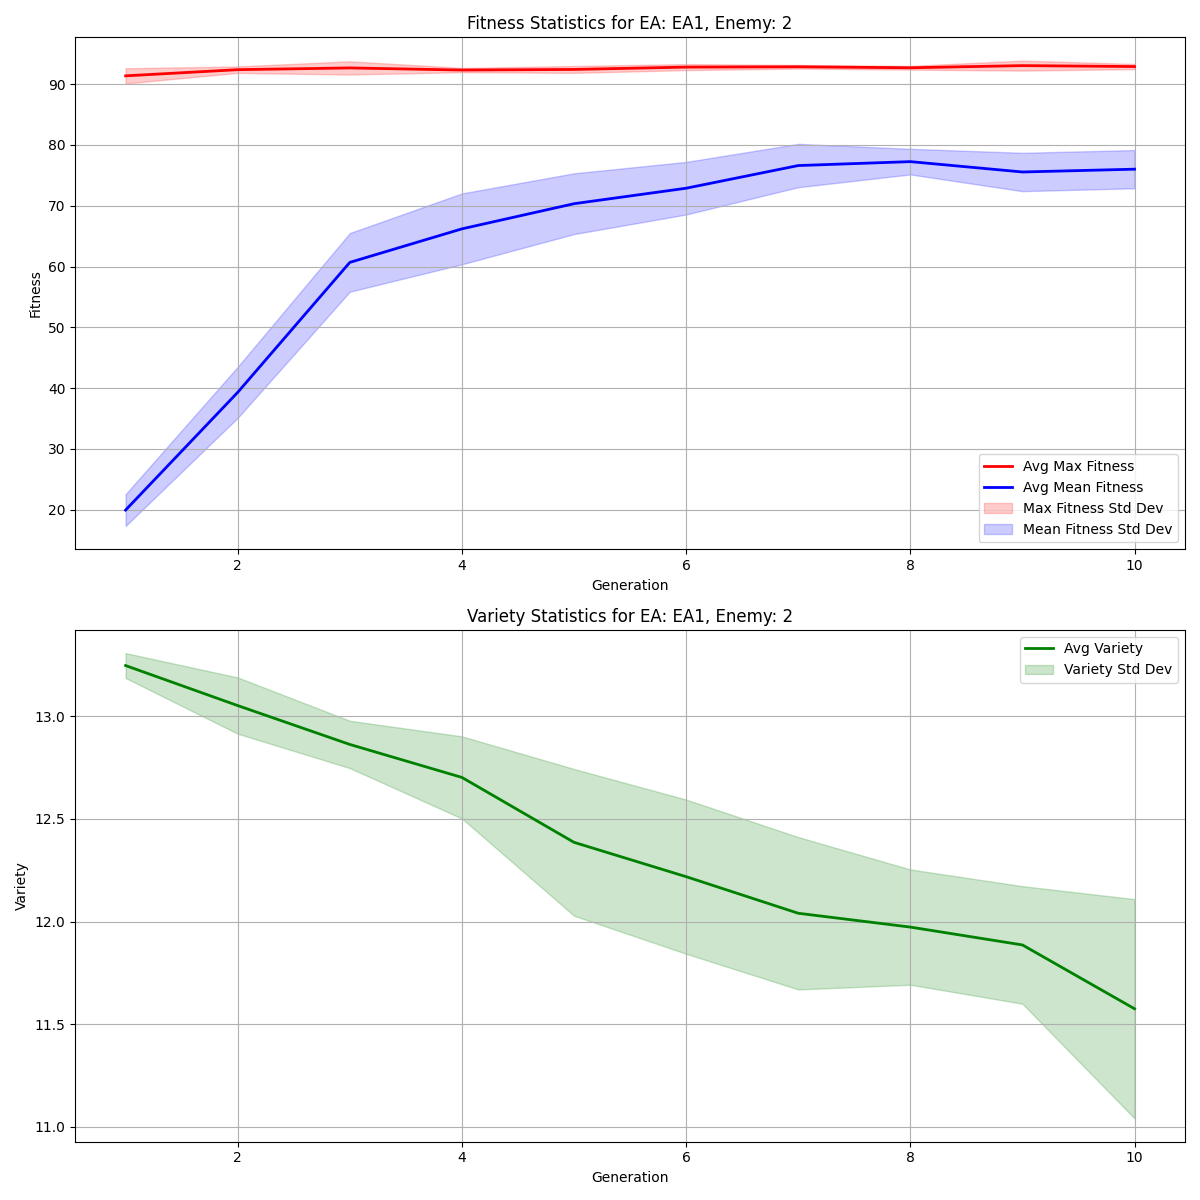
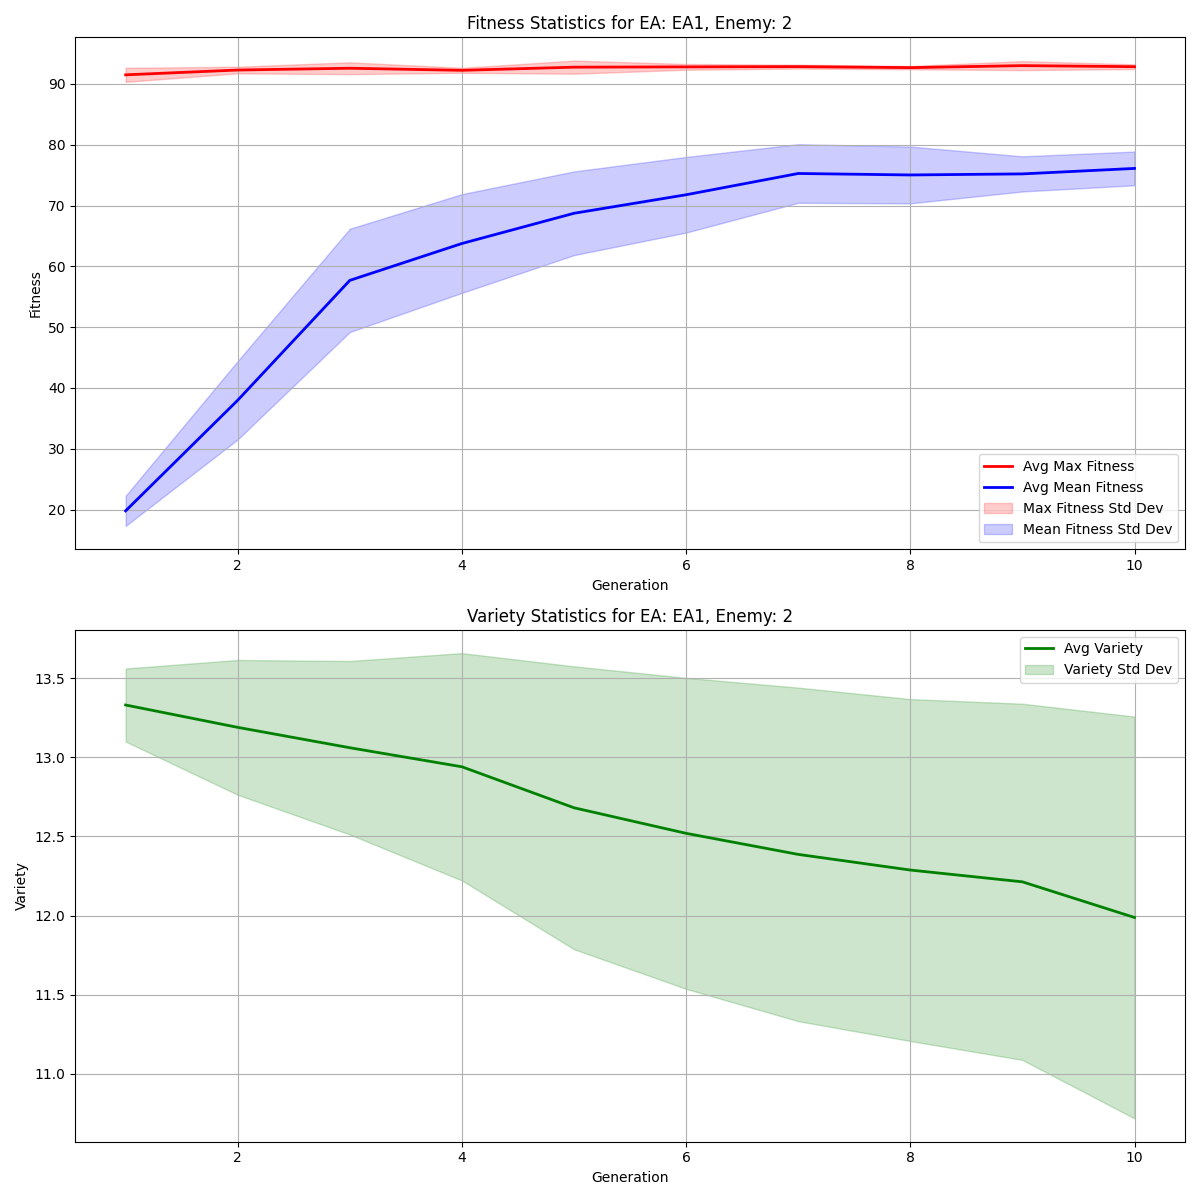
updated plot.py for both EA's

diff --git a/plot.py b/plot.py
@@ -2,6 +2,7 @@ import os
 import glob
 import numpy as np
 import matplotlib.pyplot as plt
+# from PyQt5 import QtCore, QtGui, QtWidgets
 
 # Function to load mean, max fitness, and variety data from CSV files
 def load_fitness_data(ea_folder, enemy_folder):
@@ -48,43 +49,67 @@ def load_fitness_data(ea_folder, enemy_folder):
 
     return valid_generations, avg_max_fitness, avg_mean_fitness, std_max_fitness, std_mean_fitness, avg_variety, std_variety
 
-# Function to plot fitness statistics and variety
-def plot_fitness_statistics(generations, avg_max_fitness, std_max_fitness, avg_mean_fitness, std_mean_fitness, avg_variety, std_variety, ea, enemy):
+# Function to plot the fitness statistics for multiple EAs
+def plot_fitness_statistics(generations, ea1_data, ea2_data, ea1_label, ea2_label, enemy):
     plt.figure(figsize=(12, 12))
 
-    # Plot mean and max fitness on the first subplot
+    # Extract data for EA1
+    avg_max_fitness_ea1, std_max_fitness_ea1, avg_mean_fitness_ea1, std_mean_fitness_ea1, avg_variety_ea1, std_variety_ea1 = ea1_data
+    # Extract data for EA2
+    avg_max_fitness_ea2, std_max_fitness_ea2, avg_mean_fitness_ea2, std_mean_fitness_ea2, avg_variety_ea2, std_variety_ea2 = ea2_data
+
+    # Plot mean and max fitness on the first subplot EA1
     plt.subplot(2, 1, 1)
-    plt.plot(generations, avg_max_fitness, label='Avg Max Fitness', color='red', linewidth=2)
-    plt.plot(generations, avg_mean_fitness, label='Avg Mean Fitness', color='blue', linewidth=2)
+    plt.plot(generations, avg_max_fitness_ea1, label=f'Avg Max Fitness {ea1_label}', color='red', linewidth=2)
+    plt.plot(generations, avg_mean_fitness_ea1, label=f'Avg Mean Fitness {ea1_label}', color='blue', linewidth=2)
 
-    # Plot the shading for standard deviation
+    # Plot the standard deviation for EA1
     plt.fill_between(generations,
-                     np.array(avg_max_fitness) - np.array(std_max_fitness),
-                     np.array(avg_max_fitness) + np.array(std_max_fitness),
-                     color='red', alpha=0.2, label='Max Fitness Std Dev')
+                     np.array(avg_max_fitness_ea1) - np.array(std_max_fitness_ea1),
+                     np.array(avg_max_fitness_ea1) + np.array(std_max_fitness_ea1),
+                     color='red', alpha=0.2, label=f'{ea1_label} Max Fitness Std Dev')
 
     plt.fill_between(generations,
-                     np.array(avg_mean_fitness) - np.array(std_mean_fitness),
-                     np.array(avg_mean_fitness) + np.array(std_mean_fitness),
-                     color='blue', alpha=0.2, label='Mean Fitness Std Dev')
+                     np.array(avg_mean_fitness_ea1) - np.array(std_mean_fitness_ea1),
+                     np.array(avg_mean_fitness_ea1) + np.array(std_mean_fitness_ea1),
+                     color='blue', alpha=0.2, label=f'{ea1_label} Mean Fitness Std Dev')
 
-    plt.title(f'Fitness Statistics for EA: {ea}, Enemy: {enemy}')
+    # Plot mean and max fitness for EA2
+    plt.plot(generations, avg_max_fitness_ea2, label=f'Avg Max Fitness {ea2_label}', color='orange', linewidth=2, linestyle='--')
+    plt.plot(generations, avg_mean_fitness_ea2, label=f'Avg Mean Fitness {ea2_label}', color='purple', linewidth=2, linestyle='--')
+
+    # Plot standard deviation for EA2
+    plt.fill_between(generations,
+                     np.array(avg_max_fitness_ea2) - np.array(std_max_fitness_ea2),
+                     np.array(avg_max_fitness_ea2) + np.array(std_max_fitness_ea2),
+                     color='orange', alpha=0.2, label=f'{ea2_label} Max Fitness Std Dev')
+
+    plt.fill_between(generations,
+                     np.array(avg_mean_fitness_ea2) - np.array(std_mean_fitness_ea2),
+                     np.array(avg_mean_fitness_ea2) + np.array(std_mean_fitness_ea2),
+                     color='purple', alpha=0.2, label=f'{ea2_label} Mean Fitness Std Dev')
+
+    plt.title(f'Fitness Statistics for Enemy: {enemy}')
     plt.xlabel('Generation')
     plt.ylabel('Fitness')
     plt.legend()
     plt.grid()
 
-    # Plot variety on the second subplot
+    # Plot variety 
     plt.subplot(2, 1, 2)
-    plt.plot(generations, avg_variety, label='Avg Variety', color='green', linewidth=2)
-
-    # Plot the shading for standard deviation
+    plt.plot(generations, avg_variety_ea1, label=f'Avg Variety {ea1_label}', color='green', linewidth=2)
     plt.fill_between(generations,
-                     np.array(avg_variety) - np.array(std_variety),
-                     np.array(avg_variety) + np.array(std_variety),
-                     color='green', alpha=0.2, label='Variety Std Dev')
+                     np.array(avg_variety_ea1) - np.array(std_variety_ea1),
+                     np.array(avg_variety_ea1) + np.array(std_variety_ea1),
+                     color='green', alpha=0.2, label=f'{ea1_label} Variety Std Dev')
 
-    plt.title(f'Variety Statistics for EA: {ea}, Enemy: {enemy}')
+    plt.plot(generations, avg_variety_ea2, label=f'Avg Variety {ea2_label}', color='cyan', linewidth=2, linestyle='--')
+    plt.fill_between(generations,
+                     np.array(avg_variety_ea2) - np.array(std_variety_ea2),
+                     np.array(avg_variety_ea2) + np.array(std_variety_ea2),
+                     color='cyan', alpha=0.2, label=f'{ea2_label} Variety Std Dev')
+
+    plt.title(f'Variety Statistics for Enemy: {enemy}')
     plt.xlabel('Generation')
     plt.ylabel('Variety')
     plt.legend()
@@ -92,27 +117,33 @@ def plot_fitness_statistics(generations, avg_max_fitness, std_max_fitness, avg_m
     plt.tight_layout()
 
     # Save the plot
-    output_folder = f"plots/{ea}/{enemy}"
+    output_folder = f"plots/EA1_vs_EA2/enemy_{enemy}"
     os.makedirs(output_folder, exist_ok=True)
     plt.savefig(f"{output_folder}/fitness_and_variety_statistics_enemy{enemy}.png")
     plt.show()
     plt.close()
 
+
 # Main function to run the plotting
 def main():
     base_data_folder = 'testdata'
-    ea = 'EA1'  # Change to the specific EA you want to analyze
+    ea1 = 'EA1'
+    ea2 = 'EA2'
     enemy = '2'  # Change to the specific enemy you want to analyze
 
-    ea_folder = os.path.join(base_data_folder, ea)
+    ea1_folder = os.path.join(base_data_folder, ea1)
+    ea2_folder = os.path.join(base_data_folder, ea2)
+
     enemy_folder = enemy
 
-    # Load the fitness and variety data
-    generations, avg_max_fitness, avg_mean_fitness, std_max_fitness, std_mean_fitness, avg_variety, std_variety = load_fitness_data(ea_folder, enemy_folder)
+    generations, avg_max_fitness_ea1, avg_mean_fitness_ea1, std_max_fitness_ea1, std_mean_fitness_ea1, avg_variety_ea1, std_variety_ea1 = load_fitness_data(ea1_folder, enemy_folder)
+    _, avg_max_fitness_ea2, avg_mean_fitness_ea2, std_max_fitness_ea2, std_mean_fitness_ea2, avg_variety_ea2, std_variety_ea2 = load_fitness_data(ea2_folder, enemy_folder)
 
-    # Plot the statistics
-    plot_fitness_statistics(generations, avg_max_fitness, std_max_fitness, avg_mean_fitness, std_mean_fitness, avg_variety, std_variety, ea, enemy)
-    print(f"Plot saved for EA: {ea}, Enemy: {enemy}")
+    ea1_data = (avg_max_fitness_ea1, std_max_fitness_ea1, avg_mean_fitness_ea1, std_mean_fitness_ea1, avg_variety_ea1, std_variety_ea1)
+    ea2_data = (avg_max_fitness_ea2, std_max_fitness_ea2, avg_mean_fitness_ea2, std_mean_fitness_ea2, avg_variety_ea2, std_variety_ea2)
+
+    plot_fitness_statistics(generations, ea1_data, ea2_data, 'EA1', 'EA2', enemy)
+    print(f"Plot saved for EA1 vs EA2, Enemy: {enemy}")
 
 
 if __name__ == '__main__':
